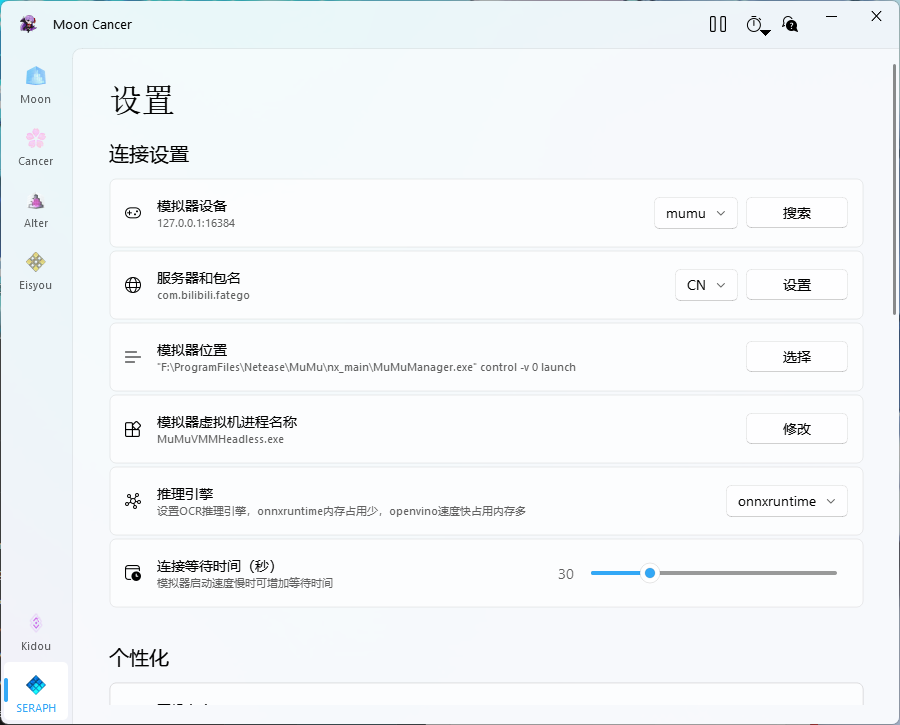
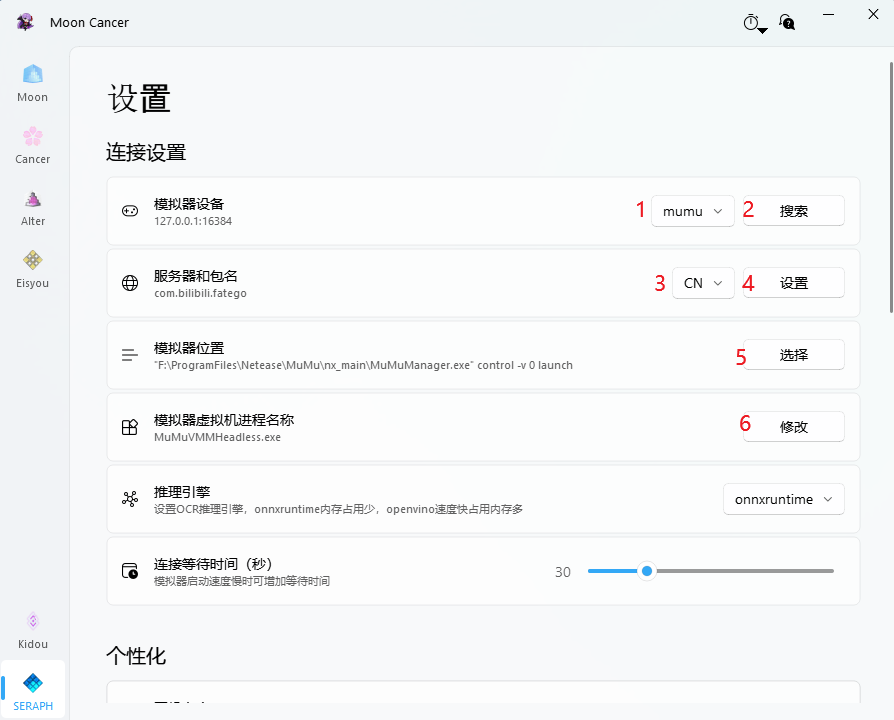
更新MoonCancer0.md，完善连接设置说明，增加模拟器使用细节和图示

diff --git a/src/content/posts/MoonCancer0.md b/src/content/posts/MoonCancer0.md
@@ -62,7 +62,11 @@ draft: false
 
 ### 连接设置
 :::important
-请在设置之前打开要使用的模拟器，多开的情况要保证目标模拟器先启动，不然修改数值会失败
+请在设置之前打开要使用的模拟器，多开的情况要保证目标模拟器先启动，不然修改数值会失败。
+
+按下图标记顺序完成设置即可连接设备，如果是mumu模拟器B服，只需要进行第2步搜索设备选择确认即可。
+
+如果是其他情况，例如雷电模拟器日服，那就要按1234的顺序设置，56只要第2步自动填入了内容就用管。
 :::
 ![settings1](../../assets/images/mooncaner/settings1.png)
 - `模拟器设备`列表里有的都支持自动搜索，没有就选other，这里选MuMu和雷电的话默认使用高速连接，切换到other时只要参数正确也能正常使用adb连接；如果高速连接出现问题可以切换到other使用默认连接方式，`如果是新版MuMu只能选mumu才能正常使用`。<br>